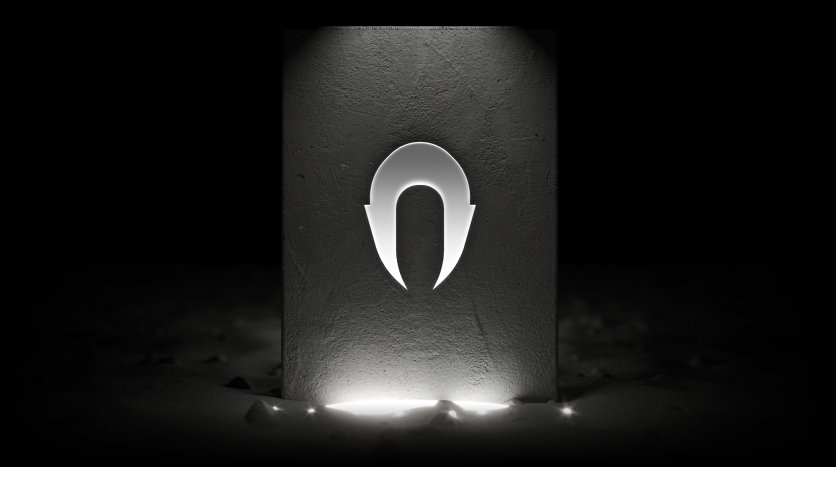
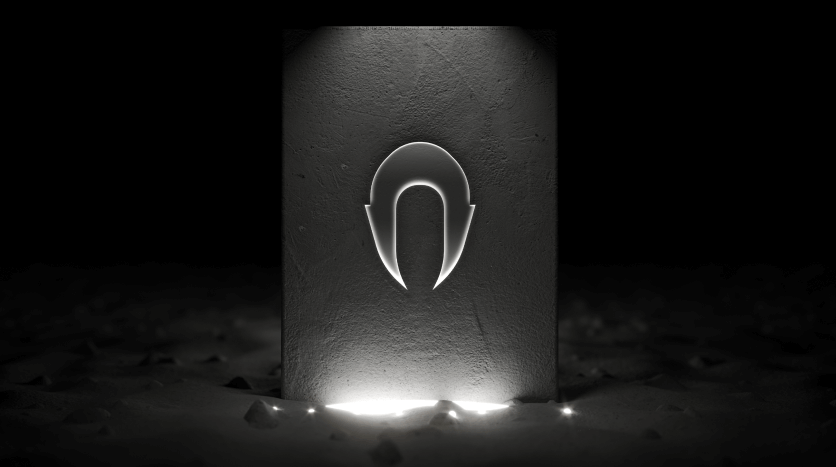
implementing our vision section second iteration

diff --git a/src/components/sections/two-columns/variant-3/index.tsx b/src/components/sections/two-columns/variant-3/index.tsx
@@ -4,11 +4,11 @@ import useMediaQuery from "@/hooks/useMediaQuery";
 import Image from "next/image";
 import Accordion from "../../../accordion";
 const ColumnVariant3 = () => {
-  const isTablet = useMediaQuery(1024);
+  const isTablet = useMediaQuery(768);
 
   return (
     <div className="grid grid-cols-2 relative gap-x-5 lg:gap-x-10">
-      <div className=" col-span-2 md:col-span-1 z-10">
+      <div className=" col-span-2 lg:col-span-1 z-10">
         {!isTablet ? (
           <h3 className="font-primary text-4xl leading-[120%] uppercase z-10 break-words">
             <span className="text-white">
@@ -38,13 +38,13 @@ const ColumnVariant3 = () => {
         ))}
       </div>
 
-      <div className="absolute -bottom-5 left-[8%] w-[836px]">
+      <div className="absolute -bottom-5 left-96  lg:-left-20 xl:left-[8%] max-w-[650px] md:w-[836px]">
         <Image
           src={alienImage}
           width={836}
           height={500}
           alt=""
-          className="w-full"
+          className="w-full bg-gradient-to-r from-black via-black to-transparent"
         />
       </div>
     </div>
